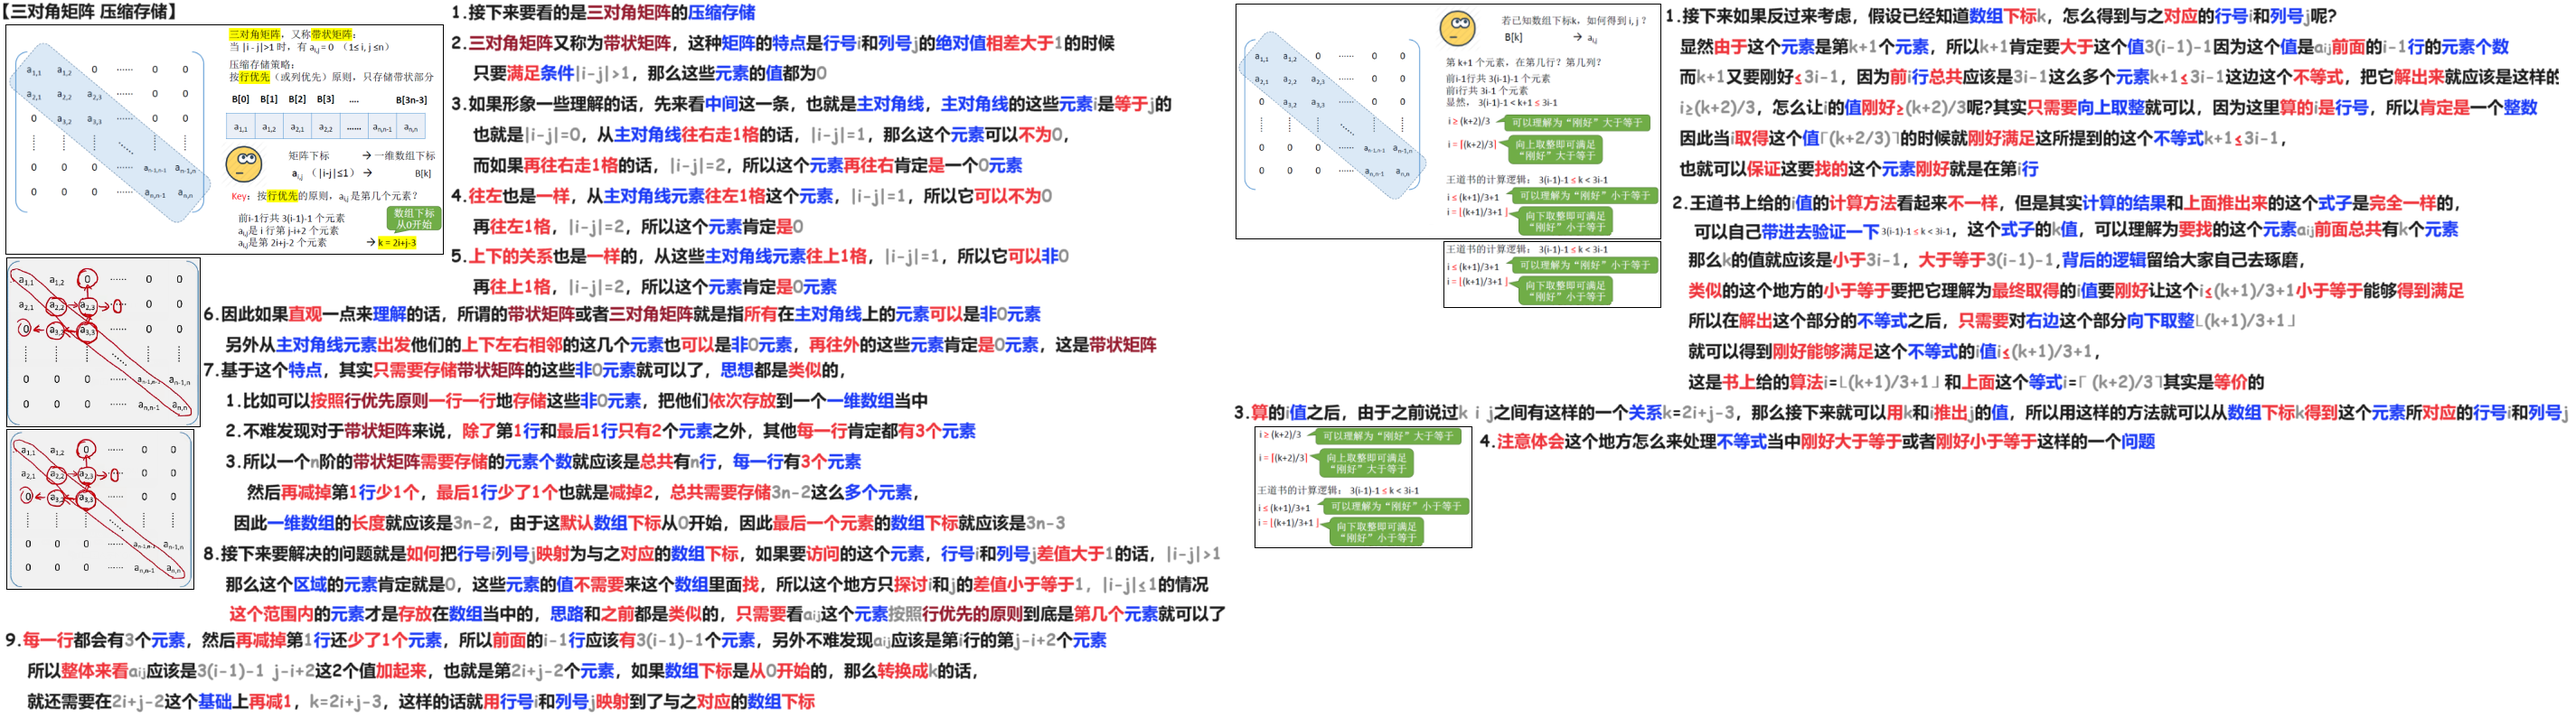
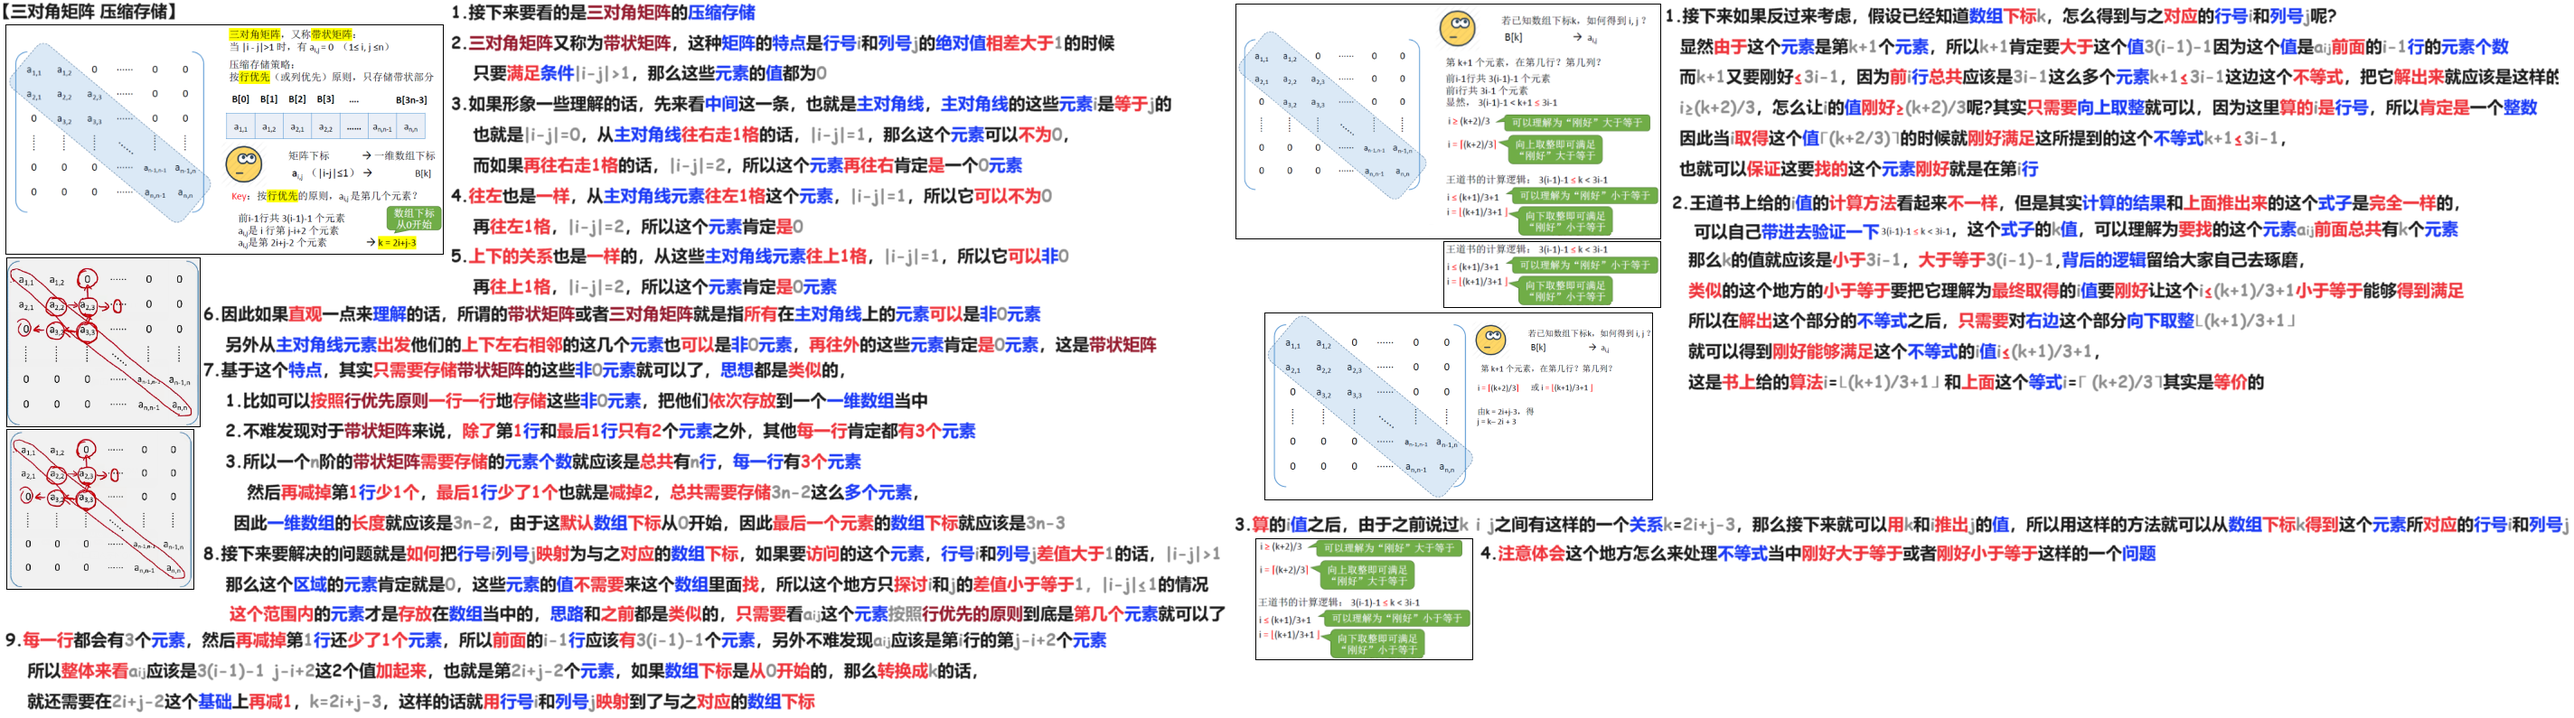
240406

Changed region(s): [[0.0938, 0.0, 1.0, 0.9962], [0.0938, 0.3019, 0.125, 0.3321]]

diff --git a/01 初试/02 DS/02 24 王道 基础/03 栈 队列 数组/04 特殊矩阵 压缩存储 240405/02 Doc.md b/01 初试/02 DS/02 24 王道 基础/03 栈 队列 数组/04 特殊矩阵 压缩存储 240405/02 Doc.md
@@ -40,9 +40,17 @@
 
 # 07 三对角矩阵 压缩存储
 
-<img src="https://cvp.oss-cn-shanghai.aliyuncs.com/picgo/202404060827602.png" alt="image-20240406082700321" style="zoom:50%;" />
+<img src="https://cvp.oss-cn-shanghai.aliyuncs.com/picgo/202404060831175.png" alt="image-20240406083157926" style="zoom:50%;" />
 
 
 
 # 08 稀疏矩阵 压缩存储
+
+<img src="https://cvp.oss-cn-shanghai.aliyuncs.com/picgo/202404060944009.png" alt="image-20240406094433781" style="zoom:50%;" />
+
+
+
+# 09 知识回顾与重要考点
+
+<img src="https://cvp.oss-cn-shanghai.aliyuncs.com/picgo/202404060953966.png" alt="image-20240406095311864" style="zoom:50%;" />
 
